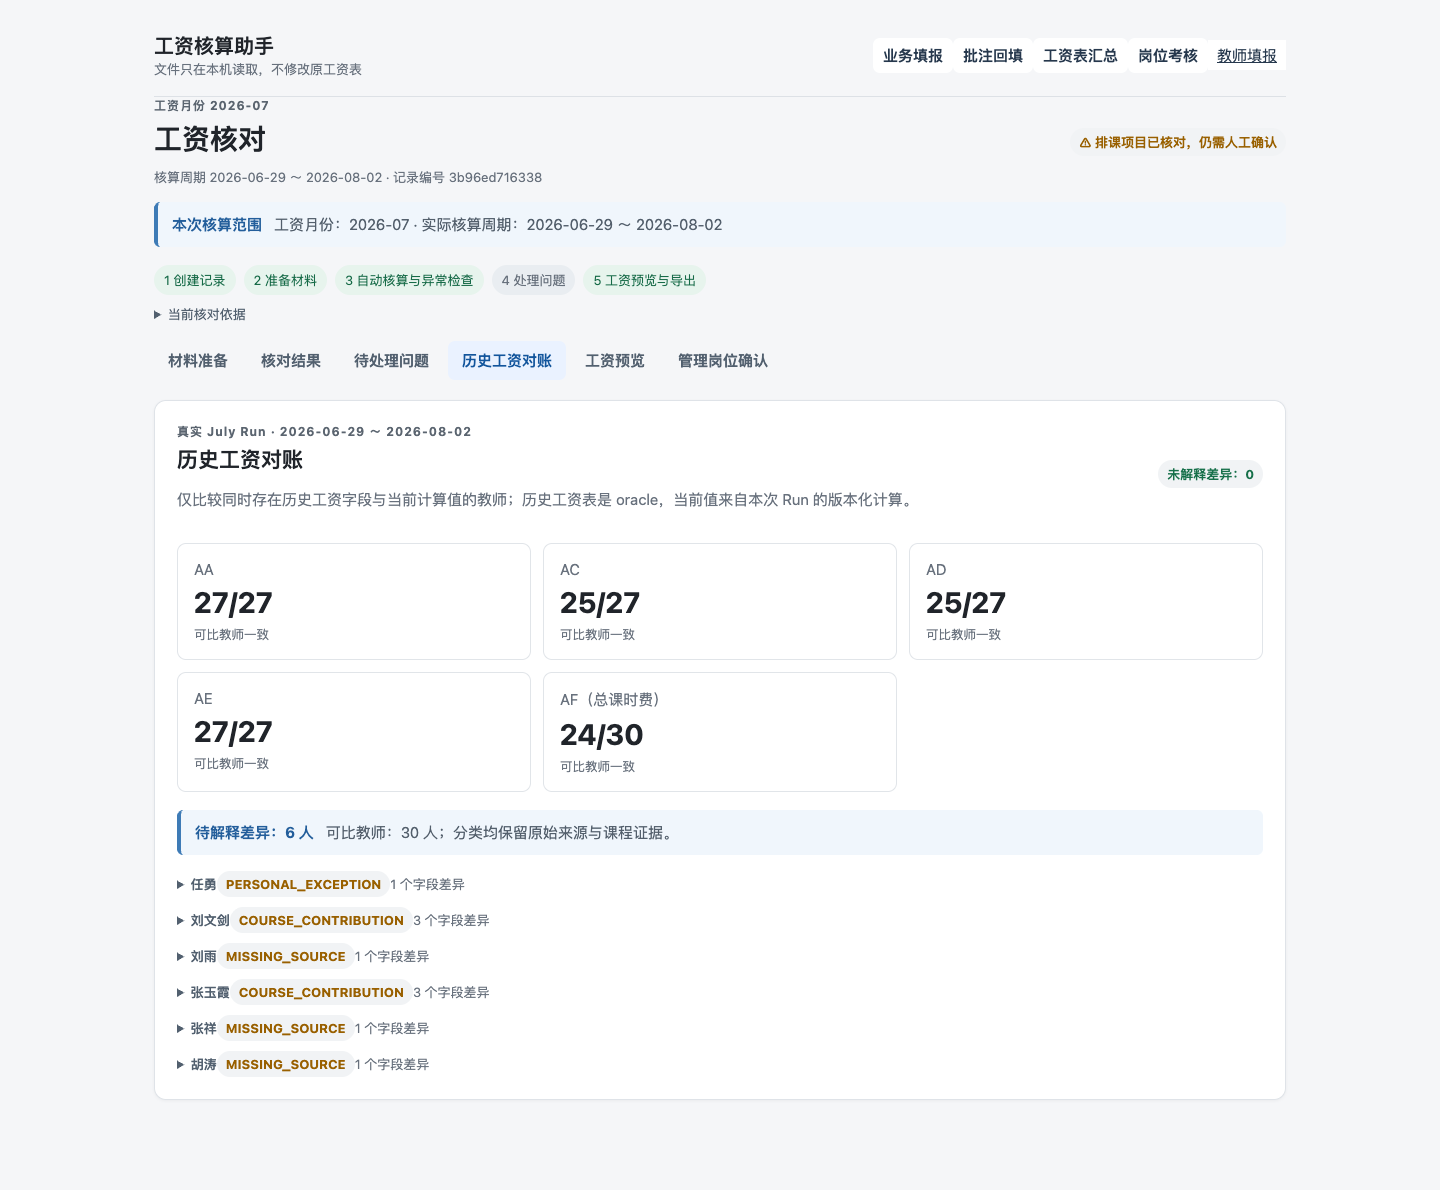
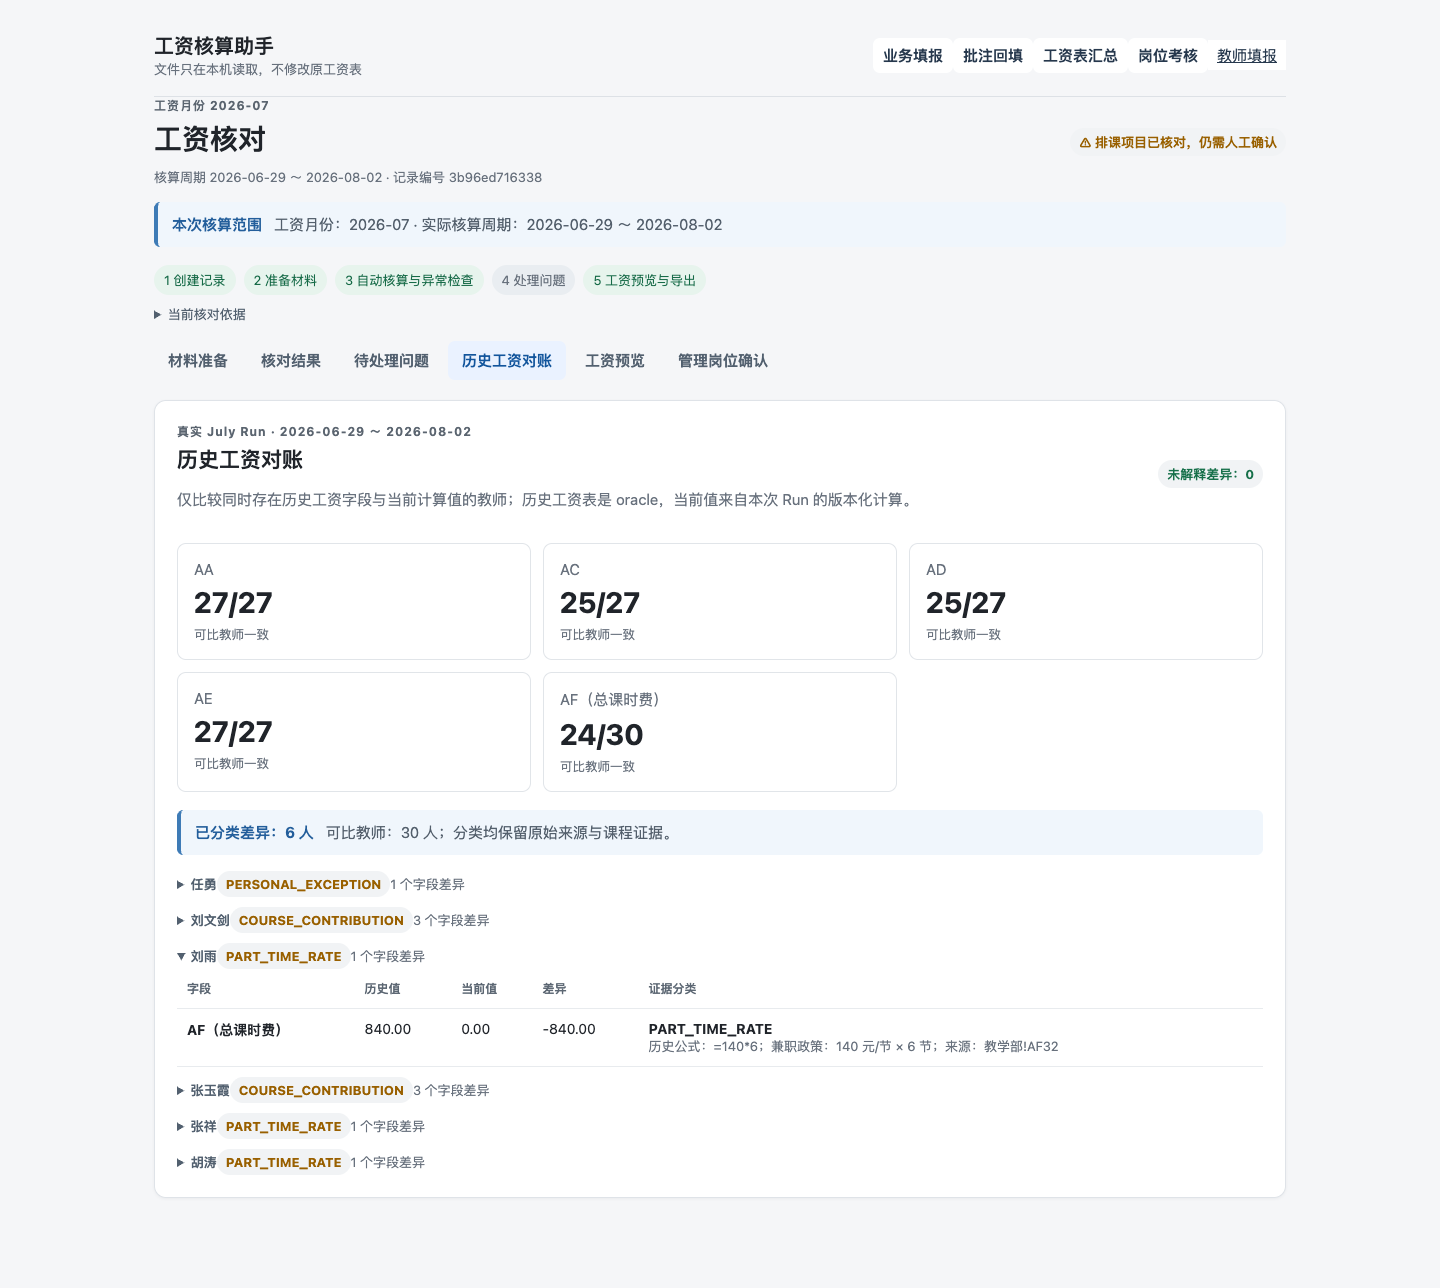
feat: recover July historical part-time evidence

diff --git a/payroll_ui/static/app.js b/payroll_ui/static/app.js
@@ -504,17 +504,20 @@ function historicalReconciliationPage(data) {
     }).join("");
     return `<details class="reconciliation-row"><summary><strong>${escapeHtml(row.teacher)}</strong><span class="status warn">${escapeHtml(row.difference_category)}</span><span class="small muted">${Object.keys(row.fields || {}).length} 个字段差异</span></summary><div class="table-wrap"><table class="table"><thead><tr><th>字段</th><th>历史值</th><th>当前值</th><th>差异</th><th>证据分类</th></tr></thead><tbody>${fields}</tbody></table></div></details>`;
   }).join("");
-  return `<section class="card"><div class="section-head"><div><p class="eyebrow">真实 July Run · ${escapeHtml(data.period_start || "—")} ～ ${escapeHtml(data.period_end || "—")}</p><h2>历史工资对账</h2><p class="muted">仅比较同时存在历史工资字段与当前计算值的教师；历史工资表是 oracle，当前值来自本次 Run 的版本化计算。</p></div><span class="status ${data.unexplained ? "bad" : "ok"}">${data.unexplained ? `${data.unexplained} 个未解释` : "未解释差异：0"}</span></div><div class="metric-grid">${stats}</div><div class="banner ${data.difference_teachers ? "info" : "success"}"><strong>待解释差异：${data.difference_teachers} 人</strong><span>可比教师：${data.teachers_compared} 人；分类均保留原始来源与课程证据。</span></div>${rows || '<div class="empty success">所有可比教师字段一致。</div>'}</section>`;
+  const differenceLabel = data.unexplained ? `待解释差异：${data.difference_teachers} 人` : `已分类差异：${data.difference_teachers} 人`;
+  return `<section class="card"><div class="section-head"><div><p class="eyebrow">真实 July Run · ${escapeHtml(data.period_start || "—")} ～ ${escapeHtml(data.period_end || "—")}</p><h2>历史工资对账</h2><p class="muted">仅比较同时存在历史工资字段与当前计算值的教师；历史工资表是 oracle，当前值来自本次 Run 的版本化计算。</p></div><span class="status ${data.unexplained ? "bad" : "ok"}">${data.unexplained ? `${data.unexplained} 个未解释` : "未解释差异：0"}</span></div><div class="metric-grid">${stats}</div><div class="banner ${data.difference_teachers ? "info" : "success"}"><strong>${differenceLabel}</strong><span>可比教师：${data.teachers_compared} 人；分类均保留原始来源与课程证据。</span></div>${rows || '<div class="empty success">所有可比教师字段一致。</div>'}</section>`;
 }
 
 function historicalEvidenceText(items) {
   const course = (items || []).find((item) => item.course_contributions);
   const base = (items || []).find((item) => item.course_contribution_count || item.historical_formula || item.reason);
+  const policy = (items || []).find((item) => item.source_classification === "PART_TIME_RATE");
   const parts = [];
   if (base?.historical_formula) parts.push(`历史公式：${base.historical_formula}`);
   if (base?.historical_obligation_hours != null || base?.current_obligation_hours != null) parts.push(`义务课时：历史 ${base.historical_obligation_hours ?? "未知"} / 当前 ${base.current_obligation_hours ?? "未知"}`);
   if (course?.course_contribution_count != null) parts.push(`逐课证据 ${course.course_contribution_count} 条`);
   else if (base?.course_contribution_count != null) parts.push(`逐课证据 ${base.course_contribution_count} 条`);
+  if (policy) parts.push(`兼职政策：${policy.rate} 元/节 × ${policy.lesson_count} 节；来源：${policy.source_cell || policy.source || "—"}`);
   return escapeHtml(parts.join("；") || "已保留来源与差异证据");
 }
 

diff --git a/payroll_ui/service.py b/payroll_ui/service.py
@@ -873,6 +873,10 @@ class PayrollService(CoreFlow):
             raise ValueError("当前记录缺少可用于历史工资对账的基准工资表或核心计算结果。")
         baseline_result = self._read_for_run("baseline", Path(baseline_item["path"]), run)
         historical = {row.teacher: row for row in baseline_result.records if getattr(row, "teacher", "")}
+        historical_comments = {}
+        for comment in getattr(baseline_result, "comments", []) or []:
+            if comment.target in historical:
+                historical_comments.setdefault((comment.target, str(comment.field).upper()), []).append(comment)
         current = {row.get("teacher"): row for row in core.get("rows", []) if row.get("teacher")}
         common = sorted(set(historical) & set(current))
         schedule_result = self._read_for_run("schedule", Path(run["files"]["schedule"]["path"]), run) if run.get("files", {}).get("schedule") else None
@@ -882,7 +886,7 @@ class PayrollService(CoreFlow):
         fields = (("AA", "one_to_one"), ("AC", "class_value"), ("AD", "teaching_hours"), ("AE", "ae"), ("AF", "af"))
         stats = {field: {"matches": 0, "comparable": 0} for field, _ in fields}
         differences = []
-        category_counts = {name: 0 for name in ("INPUT_SCOPE", "MISSING_SOURCE", "COURSE_CONTRIBUTION", "PERSONAL_EXCEPTION", "RULE_DIFFERENCE", "DATA_QUALITY", "UNEXPLAINED")}
+        category_counts = {name: 0 for name in ("INPUT_SCOPE", "MISSING_SOURCE", "PART_TIME_RATE", "COURSE_CONTRIBUTION", "PERSONAL_EXCEPTION", "RULE_DIFFERENCE", "DATA_QUALITY", "UNEXPLAINED")}
         for teacher in common:
             old = historical[teacher]
             new = current[teacher]
@@ -902,6 +906,7 @@ class PayrollService(CoreFlow):
                     continue
                 category, evidence = self._historical_difference_evidence(
                     field, old, new, difference, contributions, by_key, run,
+                    historical_comments.get((teacher, field), []),
                 )
                 category_counts[category] += 1
                 teacher_categories.append(category)
@@ -915,8 +920,17 @@ class PayrollService(CoreFlow):
                     "evidence": evidence,
                 }
             if field_output:
-                primary = next((item for item in ("MISSING_SOURCE", "PERSONAL_EXCEPTION", "COURSE_CONTRIBUTION", "RULE_DIFFERENCE", "DATA_QUALITY", "INPUT_SCOPE", "UNEXPLAINED") if item in teacher_categories), "DATA_QUALITY")
+                primary = next((item for item in ("PART_TIME_RATE", "MISSING_SOURCE", "PERSONAL_EXCEPTION", "COURSE_CONTRIBUTION", "RULE_DIFFERENCE", "DATA_QUALITY", "INPUT_SCOPE", "UNEXPLAINED") if item in teacher_categories), "DATA_QUALITY")
                 differences.append({"teacher": teacher, "fields": field_output, "status": "DIFFERENCE", "difference_category": primary, "evidence": teacher_evidence})
+        source_classifications = {name: [] for name in ("PART_TIME_RATE", "PERSONAL_POLICY", "FIXED_HISTORICAL_VALUE", "MISSING_SOURCE")}
+        for row in differences:
+            for field in row["fields"].values():
+                for item in field.get("evidence", []):
+                    classification = item.get("source_classification")
+                    if classification in source_classifications and row["teacher"] not in source_classifications[classification]:
+                        source_classifications[classification].append(row["teacher"])
+        for teachers in source_classifications.values():
+            teachers.sort()
         return {
             "run_id": run["id"],
             "period_label": run.get("period_label", run.get("period")),
@@ -928,6 +942,7 @@ class PayrollService(CoreFlow):
             "field_stats": stats,
             "difference_teachers": len(differences),
             "category_counts": category_counts,
+            "source_classifications": source_classifications,
             "unexplained": category_counts["UNEXPLAINED"],
             "rows": differences,
         }
@@ -940,7 +955,7 @@ class PayrollService(CoreFlow):
         match = re.search(r"AD\d*\s*[-−]\s*(\d+(?:\.\d+)?)", text)
         return float(match.group(1)) if match else None
 
-    def _historical_difference_evidence(self, field: str, old: object, new: dict, difference: float, contributions: list[dict], by_key: dict, run: dict) -> tuple[str, list[dict]]:
+    def _historical_difference_evidence(self, field: str, old: object, new: dict, difference: float, contributions: list[dict], by_key: dict, run: dict, comments: list[object] | None = None) -> tuple[str, list[dict]]:
         old_provenance = getattr(old, "provenance", {}) or {}
         af_fact = old_provenance.get("af")
         historical_formula = getattr(af_fact, "raw_value", "") if af_fact else ""
@@ -960,6 +975,10 @@ class PayrollService(CoreFlow):
             evidence.append({"course_contributions": course_rows, "course_contribution_count": len(course_rows), "note": "当前 AC/AD 差异由逐课贡献与历史工资表字段对照；历史逐课公式未存入工资表，保留原始 AC 公式作为依据。"})
             return "COURSE_CONTRIBUTION", evidence
         if field == "AF":
+            part_time = self._historical_part_time_policy(old, comments or [], run)
+            if part_time is not None:
+                evidence.append(part_time)
+                return "PART_TIME_RATE", evidence
             historical_obligation = self._historical_obligation(historical_formula)
             current_obligation = None
             for item in current_fact.get("evidence", []):
@@ -975,12 +994,50 @@ class PayrollService(CoreFlow):
                 evidence.append({"historical_obligation_hours": historical_obligation, "current_obligation_hours": current_obligation, "reason": "AF 差异由 AD 课程贡献差异传导。"})
                 return "COURSE_CONTRIBUTION", evidence
             if historical_obligation is None:
-                evidence.append({"reason": "历史 AF 公式未引用 AD/AE，无法从工资表恢复义务课时；该教师历史来源缺少可复算字段。", "historical_formula": historical_formula})
+                evidence.append({"source_classification": "MISSING_SOURCE", "reason": "历史 AF 公式未引用 AD/AE，且没有可绑定的兼职/个人政策证据；该教师历史来源缺少可复算字段。", "historical_formula": historical_formula})
                 return "MISSING_SOURCE", evidence
             evidence.append({"historical_obligation_hours": historical_obligation, "current_obligation_hours": current_obligation, "historical_formula": historical_formula, "current_formula": current_fact.get("reason", "")})
             return "RULE_DIFFERENCE", evidence
         evidence.append({"reason": "历史字段与当前版本化规则结果不同，保留双方来源供后续规则对账。", "current_reason": current_fact.get("reason", "")})
         return "RULE_DIFFERENCE", evidence
+
+    @staticmethod
+    def _historical_part_time_policy(old: object, comments: list[object], run: dict) -> dict | None:
+        """Extract an explicit historical per-lesson policy from a payroll comment.
+
+        A fixed AF formula alone is not enough to infer employment type.  The
+        July workbook's AF comments explicitly record a per-lesson rate and
+        count; require both that wording and a matching ``rate * count``
+        formula before classifying the source as PART_TIME_RATE.
+        """
+        formula = str(getattr((getattr(old, "provenance", {}) or {}).get("af"), "raw_value", "") or "")
+        factors = re.search(r"=\s*(\d+(?:\.\d+)?)\s*\*\s*(\d+(?:\.\d+)?)", formula)
+        if not factors:
+            return None
+        rate, lessons = float(factors.group(1)), float(factors.group(2))
+        for comment in comments:
+            text = str(getattr(comment, "text", "") or "")
+            rate_match = re.search(r"(\d+(?:\.\d+)?)\s*(?:元\s*)?/\s*节", text)
+            if not rate_match or abs(float(rate_match.group(1)) - rate) > 1e-6 or "节" not in text:
+                continue
+            source_file = str(getattr(comment, "source_file", "") or "")
+            source_sheet = str(getattr(comment, "sheet", "") or "")
+            coordinate = str(getattr(comment, "coordinate", "") or "")
+            return {
+                "source_classification": "PART_TIME_RATE",
+                "employment_type": "PART_TIME",
+                "teacher": getattr(old, "teacher", ""),
+                "period": run.get("period_label", run.get("period", "")),
+                "rate": rate,
+                "unit": "CNY_PER_LESSON",
+                "lesson_count": lessons,
+                "formula": formula,
+                "source": source_file,
+                "source_cell": f"{source_sheet}!{coordinate}" if source_sheet or coordinate else source_file,
+                "source_text": text,
+                "author": getattr(comment, "author", None),
+            }
+        return None
 
     def _with_generated_preview(self, checked: dict) -> dict:
         """Attach the canonical final-field preview without writing a file."""

diff --git a/tests/test_historical_reconciliation.py b/tests/test_historical_reconciliation.py
@@ -1,5 +1,6 @@
 from types import SimpleNamespace
 
+from payroll_core.models.evidence import CommentRecord
 from payroll_ui.service import PayrollService
 
 
@@ -88,3 +89,38 @@ def test_historical_reconciliation_marks_personal_af_exception(tmp_path):
     service._read_for_run = lambda _role, _path, _run: SimpleNamespace(records=[baseline])
     result = service.historical_reconciliation("run-2")
     assert result["rows"][0]["fields"]["AF"]["difference_category"] == "PERSONAL_EXCEPTION"
+
+
+def test_historical_reconciliation_recovers_named_part_time_rate_from_af_comment(tmp_path):
+    service = PayrollService(tmp_path / "store")
+    baseline = SimpleNamespace(
+        teacher="刘雨", source="july.xlsx", one_to_one=None, class_value=None,
+        teaching_hours=None, ae=None, af=840.0,
+        provenance={"af": SimpleNamespace(raw_value="=140*6")},
+    )
+    current_row = {
+        "teacher": "刘雨",
+        "fields": {
+            "AA": {"value": 0.0}, "AC": {"value": 0.0}, "AD": {"value": 0.0},
+            "AE": {"value": 0.0}, "AF": {"value": 0.0, "evidence": []},
+        },
+    }
+    run = {
+        "id": "run-3", "period": "2026-07", "period_label": "2026-07",
+        "files": {"baseline": {"path": "july.xlsx"}},
+        "core_calculation": {"rows": [current_row], "course_contributions": []},
+    }
+    comment = CommentRecord("july.xlsx", "教学部", "AF32", "刘雨", "af", "macos：高一生物 140/节\n合计840", "macos")
+    service._load = lambda _run_id: run
+    service._require_fresh = lambda _run: None
+    service._read_for_run = lambda _role, _path, _run: SimpleNamespace(records=[baseline], comments=[comment])
+
+    result = service.historical_reconciliation("run-3")
+
+    field = result["rows"][0]["fields"]["AF"]
+    assert result["category_counts"]["MISSING_SOURCE"] == 0
+    assert result["category_counts"]["PART_TIME_RATE"] == 1
+    assert field["difference_category"] == "PART_TIME_RATE"
+    assert field["evidence"][-1]["teacher"] == "刘雨"
+    assert field["evidence"][-1]["period"] == "2026-07"
+    assert field["evidence"][-1]["rate"] == 140.0

diff --git a/tests/test_rc_ui_render.py b/tests/test_rc_ui_render.py
@@ -138,7 +138,7 @@ const html = vm.runInContext(`historicalReconciliationPage({
  rows:[{teacher:'任勇',difference_category:'PERSONAL_EXCEPTION',fields:{AF:{historical:5491,current:4381.17,diff:-1110,difference_category:'PERSONAL_EXCEPTION',evidence:[{historical_formula:'=AD7*AE7',historical_obligation_hours:0,current_obligation_hours:30}]}}},
  {teacher:'刘文剑',difference_category:'COURSE_CONTRIBUTION',fields:{AC:{historical:240.31,current:239.11,diff:-1.2,difference_category:'COURSE_CONTRIBUTION',evidence:[{course_contribution_count:101}]}}}]
 })`, context);
-for (const text of ['历史工资对账','27/27','25/27','24/30','待解释差异：2 人','任勇','PERSONAL_EXCEPTION','刘文剑','COURSE_CONTRIBUTION','历史公式：=AD7*AE7','逐课证据 101 条']) assert(html.includes(text), text);
+for (const text of ['历史工资对账','27/27','25/27','24/30','已分类差异：2 人','任勇','PERSONAL_EXCEPTION','刘文剑','COURSE_CONTRIBUTION','历史公式：=AD7*AE7','逐课证据 101 条']) assert(html.includes(text), text);
 '''
     app = Path(__file__).parents[1] / "payroll_ui" / "static" / "app.js"
     result = subprocess.run([node, "-e", script, str(app)], capture_output=True, text=True)
